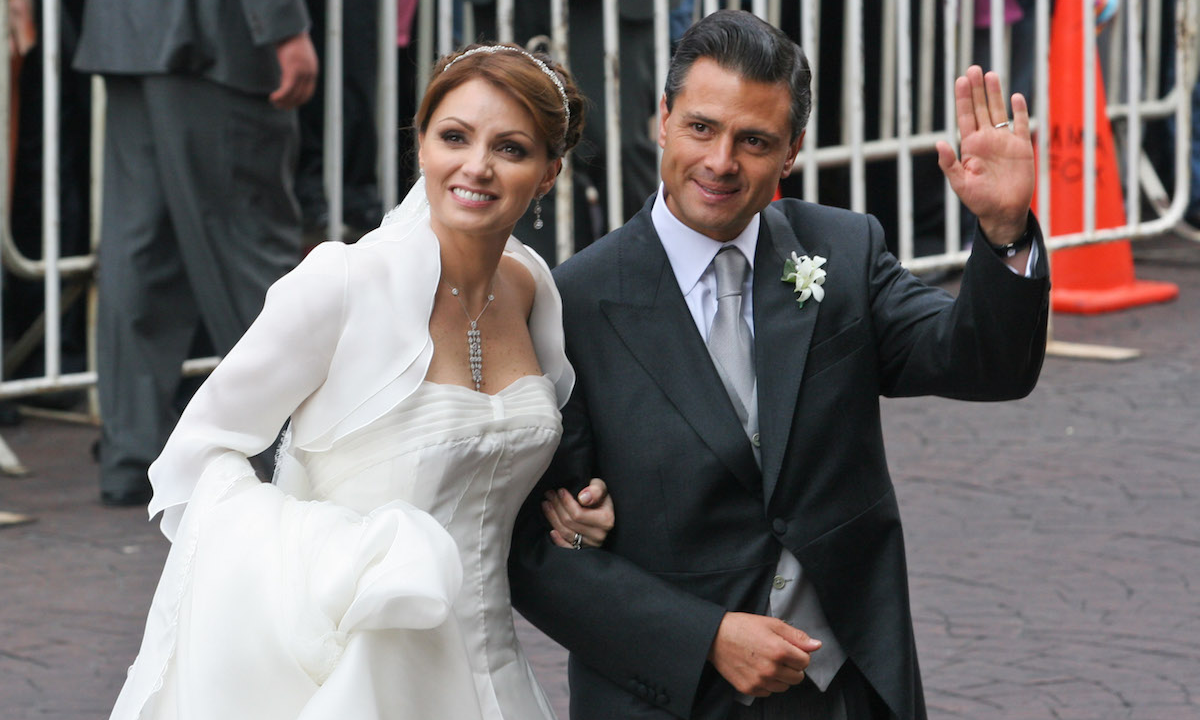
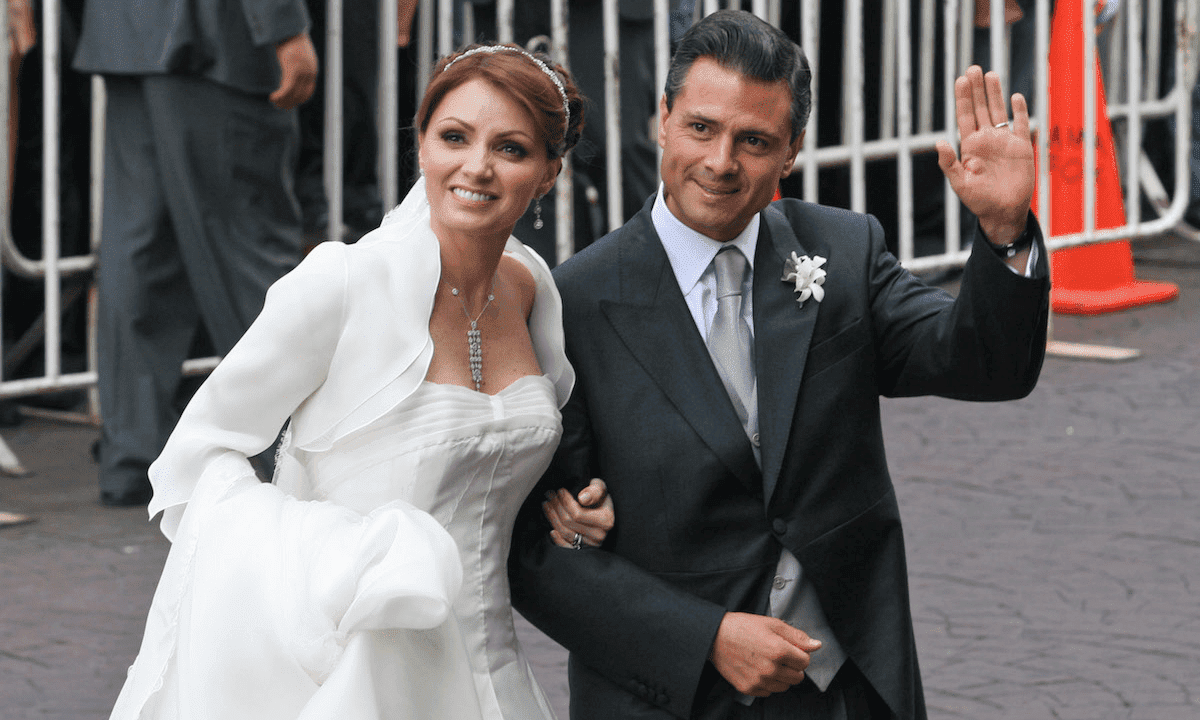
Compress images

diff --git a/public/stylesheets/style.css b/public/stylesheets/style.css
@@ -1276,7 +1276,7 @@ input[type=submit].landing-search-inputtext {
 .date-graph {
   transform: rotate(90deg);
   white-space: nowrap;
-  margin: 10px auto 0 auto;
+  margin: 15px auto 0 auto;
   display: inline-block;
   text-align: center;
   width: 100%;
